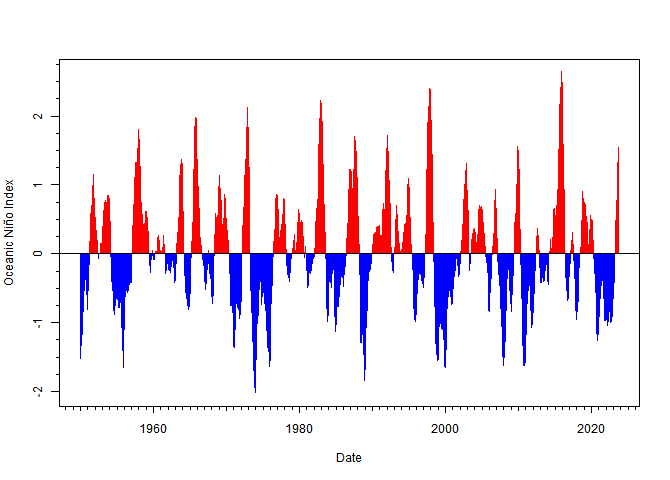
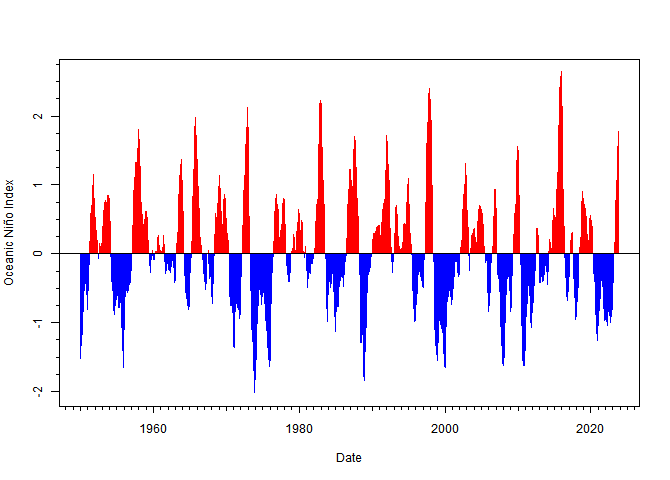
Rebuild README with latest data updates.

diff --git a/README.md b/README.md
@@ -39,7 +39,7 @@ should be cited and consulted as appropriate.
 
 Currently, pacea contains:
 
--   203,092 calculations of daily sea surface temperature based on data
+-   203,538 calculations of daily sea surface temperature based on data
     from 19 buoys.
 
 -   outputs from the spatial British Columbia continental margin (BCCM)
@@ -67,7 +67,7 @@ Currently, pacea contains:
     record, that incorporates observations from different platforms
     (satellites, ships, buoys, and Argo floats):
 
-    -   provided as weekly and monthly means from Sep 1981 to Sep 2023.
+    -   provided as weekly and monthly means from Sep 1981 to Oct 2023.
 
 -   9 climatic and oceanographic indices, such as the Pacific Decadal
     Oscillation and those related to El Niño.
@@ -152,7 +152,7 @@ example:
 
 ``` r
 oni
-#> # A tibble: 885 × 4
+#> # A tibble: 886 × 4
 #>     year month value anomaly
 #>    <dbl> <dbl> <dbl>   <dbl>
 #>  1  1950     1  24.7   -1.53
@@ -165,7 +165,7 @@ oni
 #>  8  1950     8  26.0   -0.42
 #>  9  1950     9  25.8   -0.39
 #> 10  1950    10  25.6   -0.44
-#> # ℹ 875 more rows
+#> # ℹ 876 more rows
 ```
 
 ## Vignettes
